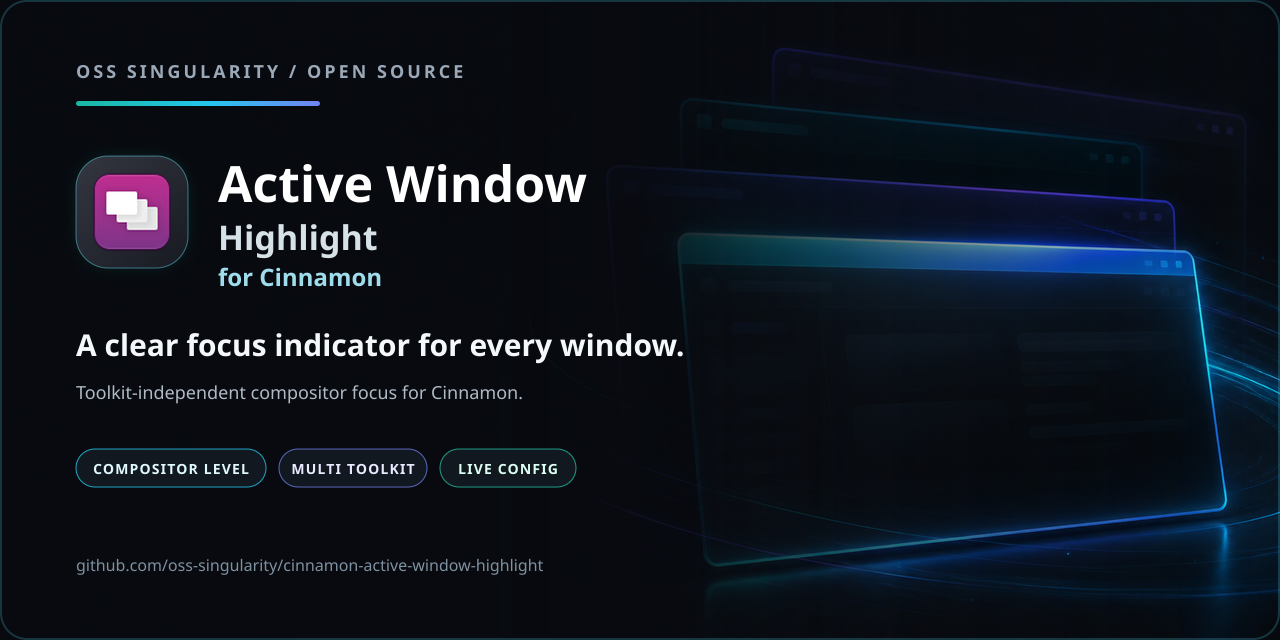
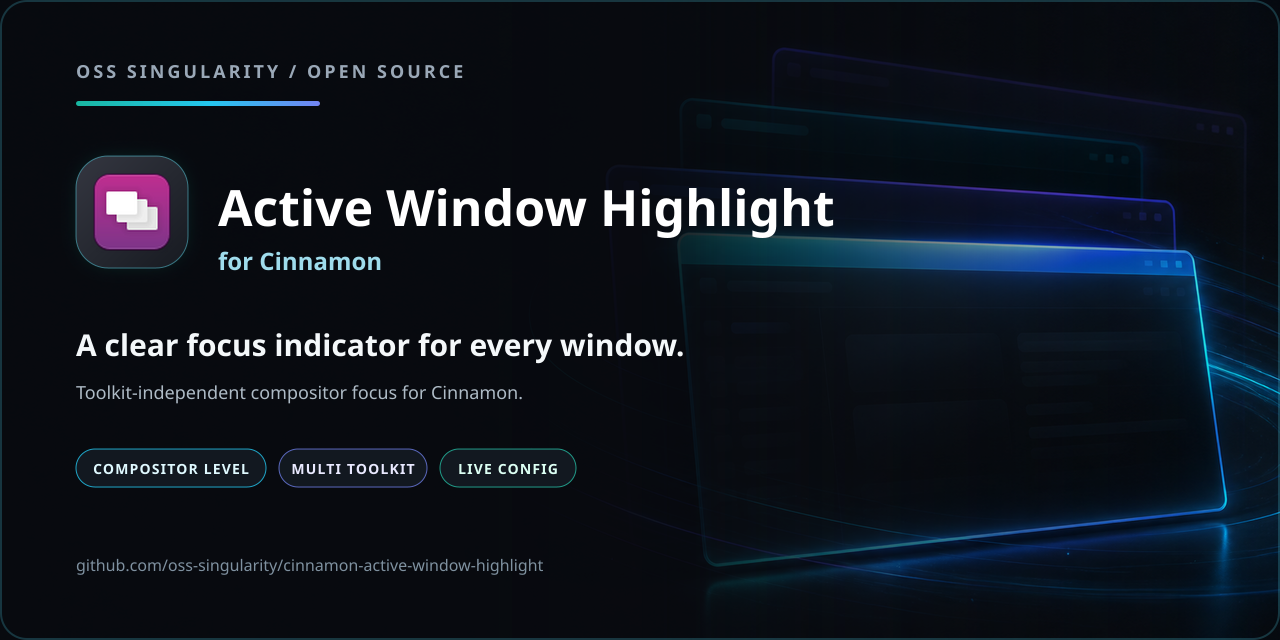
Preserve rounded frame edges at Cinnamon panels (#3)
Keep rounded panel edges visible

Mirror the configured frame border above overlapping Cinnamon panels while
clipping the mirror to the panel-covered area, preserving rounded top corners.
Refresh the public social preview title and regression checks.

Changed region(s): [[0.1562, 0.25, 0.6562, 0.4688]]

diff --git a/extension.js b/extension.js
@@ -8,6 +8,7 @@ const Clutter = imports.gi.Clutter;
 const St = imports.gi.St;
 const Meta = imports.gi.Meta;
 const Settings = imports.ui.settings;
+const Main = imports.ui.main;
 const Cairo = imports.cairo;
 const Mainloop = imports.mainloop;
 const GLib = imports.gi.GLib;
@@ -60,6 +61,7 @@ class ActiveWindowHighlight {
         this.focusSignal = 0;
         this.workspaceSignal = 0;
         this.restackSignal = 0;
+        this.panelManagerSignal = 0;
         this.positionSignal = 0;
         this.sizeSignal = 0;
         this.stateSignal = 0;
@@ -68,6 +70,7 @@ class ActiveWindowHighlight {
         this.barActor = null;
         this.barCanvas = null;
         this.frameActor = null;
+        this.panelFrameActors = [];
 
         this.animationId = 0;
         this.animationProgress = 0;
@@ -109,6 +112,13 @@ class ActiveWindowHighlight {
         this.settings.bind('frame-alpha-percent', 'frameAlphaPercent', update);
         this.settings.bind('frame-color', 'frameColor', update);
 
+        if (Main.panelManager) {
+            this.panelManagerSignal = Main.panelManager.connect(
+                'monitors-changed',
+                update
+            );
+        }
+
         this.focusSignal = global.display.connect(
             'notify::focus-window',
             this.onFocusChanged.bind(this)
@@ -141,6 +151,10 @@ class ActiveWindowHighlight {
             global.display.disconnect(this.restackSignal);
             this.restackSignal = 0;
         }
+        if (this.panelManagerSignal && Main.panelManager) {
+            Main.panelManager.disconnect(this.panelManagerSignal);
+            this.panelManagerSignal = 0;
+        }
 
         this.cleanupWindowSignals();
 
@@ -154,6 +168,7 @@ class ActiveWindowHighlight {
             this.frameActor.destroy();
             this.frameActor = null;
         }
+        this.clearPanelFrameActors();
 
         if (this.settings) {
             this.settings.finalize();
@@ -234,6 +249,7 @@ class ActiveWindowHighlight {
         if (this.frameActor) {
             this.frameActor.hide();
         }
+        this.clearPanelFrameActors();
     }
 
     update() {
@@ -277,6 +293,7 @@ class ActiveWindowHighlight {
                 sibling = actor;
             }
         }
+        this.restackPanelFrameActors();
     }
 
     ensureFrameActor() {
@@ -294,8 +311,168 @@ class ActiveWindowHighlight {
         global.window_group.add_actor(this.frameActor);
     }
 
+    clearPanelFrameActors() {
+        for (let actor of this.panelFrameActors) {
+            if (actor && !actor.is_finalized()) {
+                actor.destroy();
+            }
+        }
+        this.panelFrameActors = [];
+    }
+
+    getPanelRect(panel) {
+        if (!panel || !panel.actor || !panel.actor.visible) {
+            return null;
+        }
+
+        let position = panel.actor.get_transformed_position();
+        let size = panel.actor.get_transformed_size();
+        let width = Math.round(size[0]);
+        let height = Math.round(size[1]);
+        if (width <= 0 || height <= 0) {
+            return null;
+        }
+
+        return {
+            x: Math.round(position[0]),
+            y: Math.round(position[1]),
+            width: width,
+            height: height
+        };
+    }
+
+    intersectRects(first, second) {
+        let x = Math.max(first.x, second.x);
+        let y = Math.max(first.y, second.y);
+        let right = Math.min(first.x + first.width, second.x + second.width);
+        let bottom = Math.min(first.y + first.height, second.y + second.height);
+        if (right <= x || bottom <= y) {
+            return null;
+        }
+        return {
+            x: x,
+            y: y,
+            width: right - x,
+            height: bottom - y
+        };
+    }
+
+    panelEdgeRect(panel, rect, thickness) {
+        switch (panel.panelPosition) {
+            case 0: // top
+                return { x: rect.x, y: rect.y, width: rect.width, height: thickness };
+            case 1: // bottom
+                return {
+                    x: rect.x,
+                    y: rect.y + rect.height - thickness,
+                    width: rect.width,
+                    height: thickness
+                };
+            case 2: // left
+                return { x: rect.x, y: rect.y, width: thickness, height: rect.height };
+            case 3: // right
+                return {
+                    x: rect.x + rect.width - thickness,
+                    y: rect.y,
+                    width: thickness,
+                    height: rect.height
+                };
+            default:
+                return null;
+        }
+    }
+
+    restackPanelFrameActors() {
+        if (!Main.uiGroup || !Main.panelManager || this.panelFrameActors.length === 0) {
+            return;
+        }
+
+        let children = Main.uiGroup.get_children();
+        let highestPanel = null;
+        let highestPanelIndex = -1;
+        for (let panel of Main.panelManager.panels || []) {
+            if (!panel || !panel.actor || panel.actor.get_parent() !== Main.uiGroup) {
+                continue;
+            }
+            let index = children.indexOf(panel.actor);
+            if (index > highestPanelIndex) {
+                highestPanel = panel.actor;
+                highestPanelIndex = index;
+            }
+        }
+        if (!highestPanel) {
+            return;
+        }
+
+        for (let actor of this.panelFrameActors) {
+            if (actor.get_parent() === Main.uiGroup) {
+                Main.uiGroup.set_child_above_sibling(actor, highestPanel);
+            }
+        }
+    }
+
+    frameStyle(thickness, radius, red, green, blue) {
+        return [
+            'background-color: transparent',
+            `border: ${thickness}px solid rgb(${red}, ${green}, ${blue})`,
+            `border-radius: ${radius}px ${radius}px 0 0`
+        ].join('; ') + ';';
+    }
+
+    updatePanelFrame(rect, thickness, radius, red, green, blue, opacity) {
+        this.clearPanelFrameActors();
+        if (!Main.uiGroup || !Main.panelManager) {
+            return;
+        }
+
+        for (let panel of Main.panelManager.panels || []) {
+            if (!panel) {
+                continue;
+            }
+            let panelRect = this.getPanelRect(panel);
+            let edgeRect = this.panelEdgeRect(panel, rect, thickness);
+            if (!panelRect || !edgeRect) {
+                continue;
+            }
+
+            // Include the panel shadow and the one-pixel allocation boundary.
+            panelRect.x -= 2;
+            panelRect.y -= 2;
+            panelRect.width += 4;
+            panelRect.height += 4;
+            if (!this.intersectRects(edgeRect, panelRect)) {
+                continue;
+            }
+
+            let actor = new St.Widget({
+                name: 'ActiveWindowPanelFrame',
+                reactive: false,
+                visible: false
+            });
+            let clip = this.intersectRects(rect, panelRect);
+            if (!clip) {
+                continue;
+            }
+            actor.set_style(this.frameStyle(thickness, radius, red, green, blue));
+            actor.set_opacity(opacity);
+            actor.set_position(rect.x, rect.y);
+            actor.set_size(rect.width, rect.height);
+            actor.set_clip(
+                clip.x - rect.x,
+                clip.y - rect.y,
+                clip.width,
+                clip.height
+            );
+            Main.uiGroup.add_actor(actor);
+            actor.show();
+            this.panelFrameActors.push(actor);
+        }
+        this.restackPanelFrameActors();
+    }
+
     updateFrame(rect, suppressFrame) {
         if (suppressFrame || !this.showFrame) {
+            this.clearPanelFrameActors();
             if (this.frameActor) {
                 this.frameActor.hide();
             }
@@ -320,17 +497,22 @@ class ActiveWindowHighlight {
         let [red, green, blue] = parseColor(this.frameColor).map(
             channel => Math.round(channel * 255)
         );
-        let style = [
-            'background-color: transparent',
-            `border: ${thickness}px solid rgb(${red}, ${green}, ${blue})`,
-            `border-radius: ${radius}px ${radius}px 0 0`
-        ].join('; ') + ';';
-
-        this.frameActor.set_style(style);
+        this.frameActor.set_style(
+            this.frameStyle(thickness, radius, red, green, blue)
+        );
         this.frameActor.set_opacity(opacity);
         this.frameActor.set_position(rect.x, rect.y);
         this.frameActor.set_size(rect.width, rect.height);
         this.frameActor.show();
+        this.updatePanelFrame(
+            rect,
+            thickness,
+            radius,
+            red,
+            green,
+            blue,
+            opacity
+        );
     }
 
     updateTopBar(rect) {

diff --git a/tests/check-source.js b/tests/check-source.js
@@ -21,7 +21,14 @@ for (let required of [
     'if (suppressFrame || !this.showFrame)',
     "this.settings.bind('frame-radius', 'frameRadius', update)",
     "this.settings.bind('round-top-corners', 'roundTopCorners', update)",
-    'this.roundTopCorners ? Math.max('
+    'this.roundTopCorners ? Math.max(',
+    'this.updatePanelFrame(\n            rect,\n            thickness,\n            radius,',
+    'this.frameStyle(thickness, radius, red, green, blue)',
+    'actor.set_clip(',
+    'panel.panelPosition',
+    'panel.actor.get_transformed_position()',
+    'Main.uiGroup.add_actor(actor)',
+    'Main.uiGroup.set_child_above_sibling(actor, highestPanel)'
 ]) {
     if (!source.includes(required)) {
         throw new Error(`Missing stack-aware highlight behavior: ${required}`);

diff --git a/README.md b/README.md
@@ -63,8 +63,11 @@ extension settings.
 
 Both the bar and frame are stacked immediately above the focused window. Other
 windows that Muffin keeps higher — including **Always on Top** windows — remain
-above the highlight. Cinnamon's start menu, panels, Expo, overview and other
-Shell surfaces remain above it as well.
+above the highlight. Cinnamon's start menu, Expo, overview and other Shell
+surfaces remain above it as well. When a window frame touches a Cinnamon panel,
+only the overlapping edge segment (1 px by default) is mirrored above that
+panel so the panel cannot hide the border; the full highlight is never raised
+above the Shell.
 
 > **Screenshot note:** A “current window” capture may omit the animated top bar
 > because it is a Cinnamon compositor overlay, not part of the application's

diff --git a/CHANGELOG.md b/CHANGELOG.md
@@ -10,6 +10,8 @@
   the active Mint-Y Cinnamon window theme, and the default frame opacity is
   80%. The radius field stays visible but is disabled when square corners are
   selected.
+- Keep the configured frame edge visible when a focused window is docked against
+  a Cinnamon panel without lifting the complete highlight above the Shell.
 
 ## 1.2.0 — 2026-08-24
 
